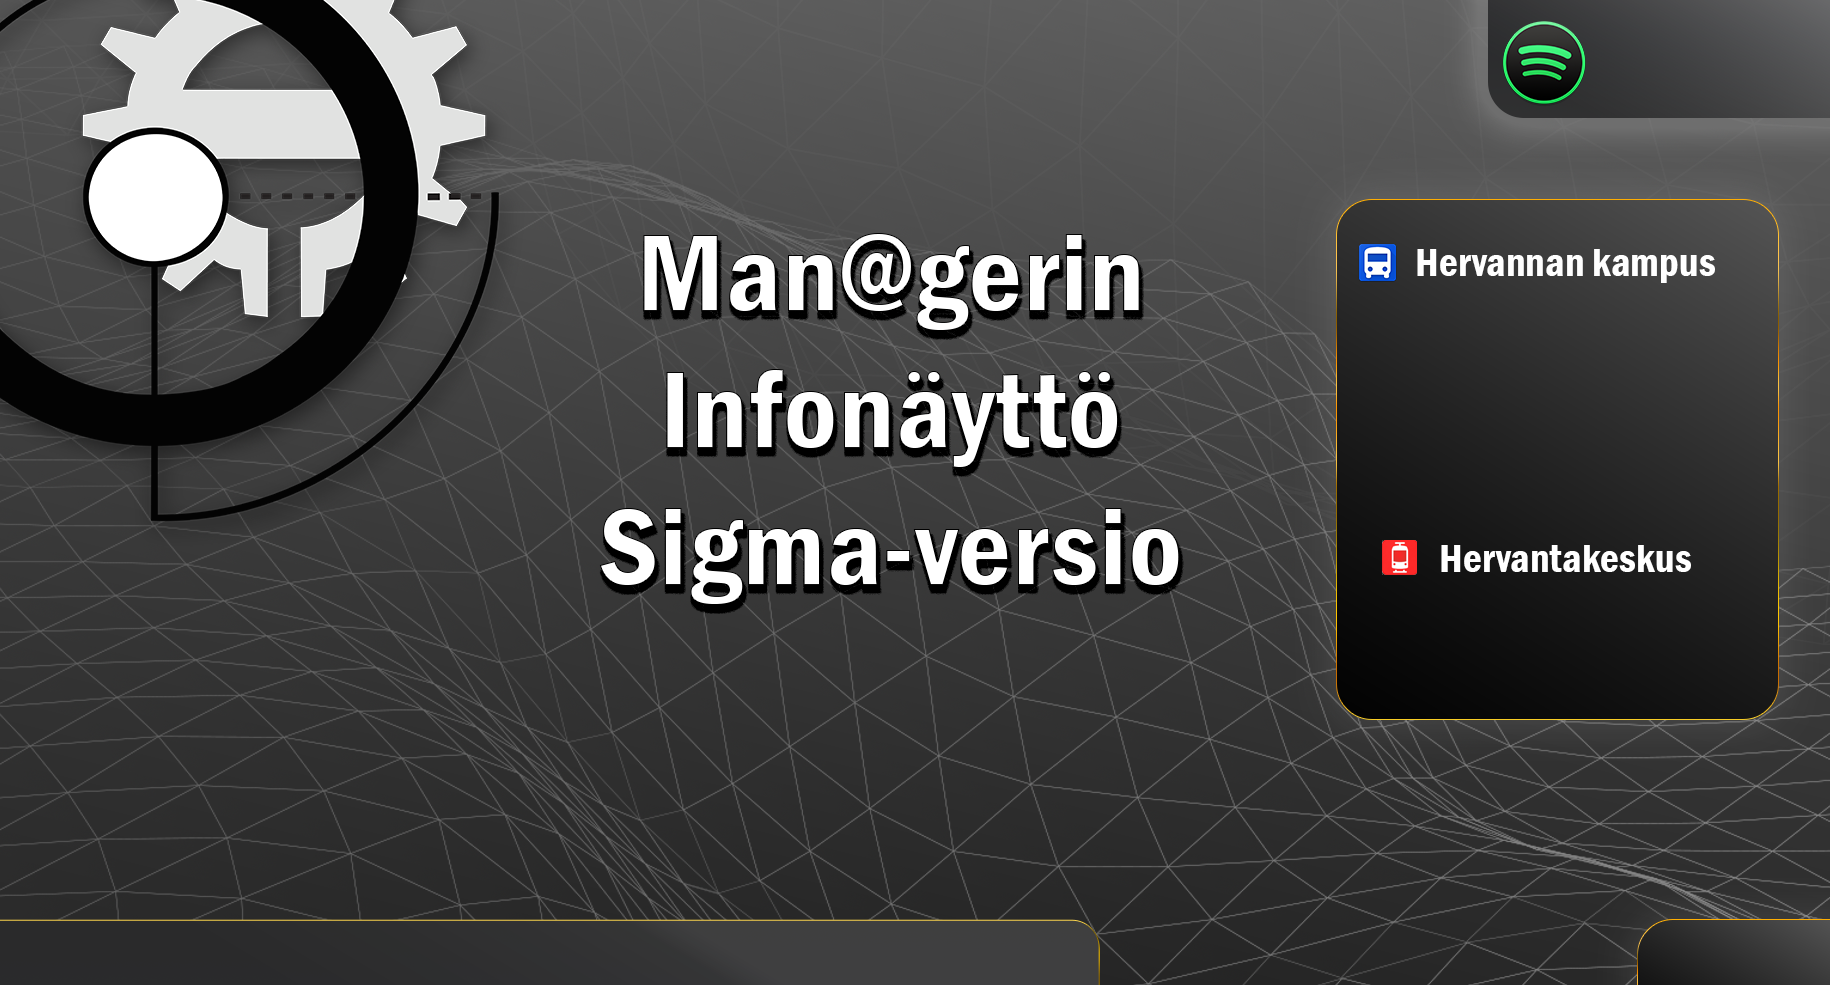
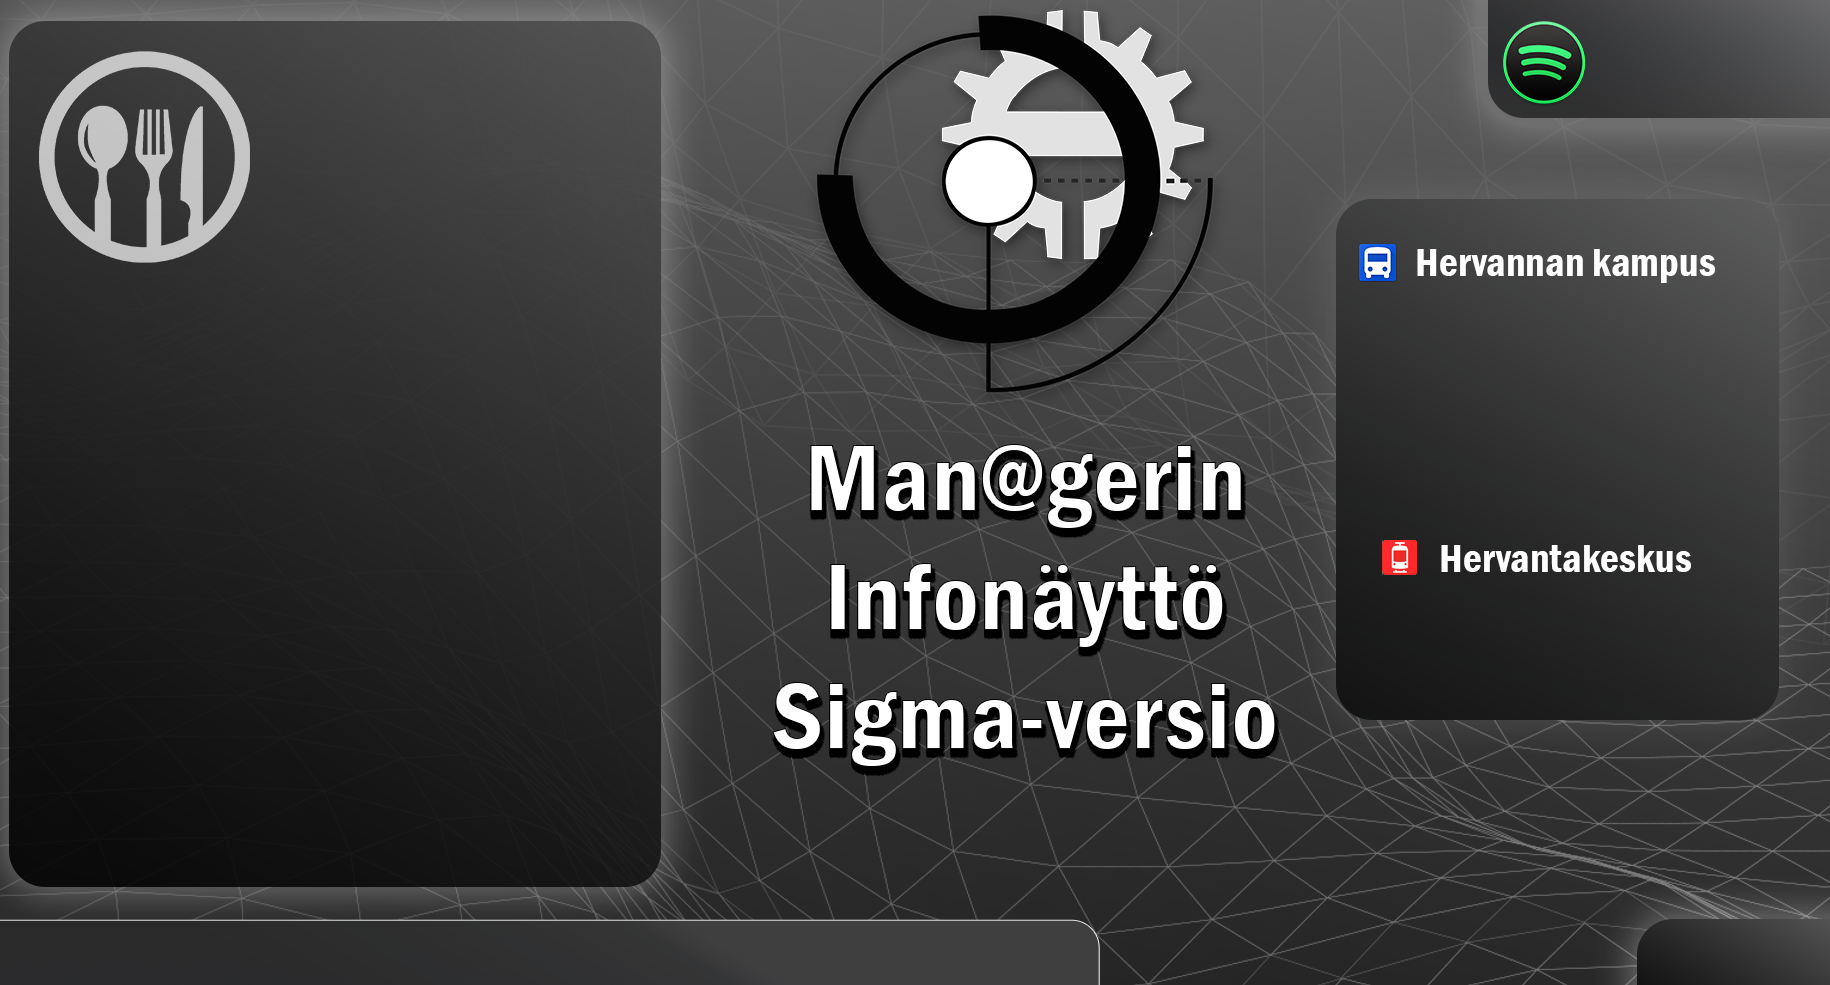
add restaurant menus

diff --git a/telegram_bot/restaurant_api.py b/telegram_bot/restaurant_api.py
@@ -16,7 +16,10 @@ def get_reaktori_menu():
                 formated_menu += "It looks like the restaurant is closed today. "
                 break
             for menu in day["SetMenus"]:
-                name = menu["Name"].split('(')[0]
+                try:
+                    name = menu["Name"].split('(')[0]
+                except AttributeError:
+                    name = menu["Name"]
                 formated_menu += "\n<b>{}</b>\n".format(name)
                 for component in menu["Components"]:
                     component = component.split('(')[0]
@@ -41,7 +44,6 @@ def get_hertsi_menu():
     return formated_menu
 
 
-# RESP = [{"kitchenName":"Ravintola Newton","kitchenId":6,"address":"","city":"","email":"","phone":"","info":"","menuTypes":[{"menuTypeId":12,"menuTypeName":"Ateriapalvelut koulu","menus":[{"menuName":"Etelä-Hervannan koulu Tampere","menuAdditionalName":"BI 19.9.2022-28.10.2022","menuId":2944,"days":[{"date":20221007,"weekday":5,"mealoptions":[{"name":"LOUNAS I","orderNumber":8,"id":3,"menuItems":[{"name":"Jauhelihapihvi","orderNumber":1,"portionSize":80,"diets":"L, M, Mu, *","ingredients":"Jauhelihapihvi (liha 52 % (viljaporsas, broileri, nauta), vesi, SOIJAPROTEIINI, perunajauho, korppujauho (VEHNÄ), rypsiöljy, mausteet (sipuli, mustapippuri, paprika, maustepippuri, lipstikka, sarviapila), emulgointiaine auringonkukkalesitiini, jodioitu suola, sokeri, karamellisoitu sokeri, happamuudensäätöaineet (kaliumkloridi, E 300), VEHNÄKUITU, aromit. Viljaporsaan-, naudan- ja broilerinlihan alkuperä Suomi) <strong>(Gluteeni, Soijapapu, vehnä)</strong>"},{"name":"Peruna","orderNumber":2,"portionSize":66,"diets":"G, M, Mu, *, VEG","ingredients":"Peruna (peruna, hapettumisenestoaine (NATRIUMDISULFIITTI)) <strong>(Rikkidioksidi)</strong>"},{"name":"Tomaattikastike","orderNumber":3,"portionSize":95,"diets":"G, M, Mu, VEG","ingredients":"Vesi, Tomatino-kastike (Tomaattisose* 84%, tomaatti* 10%, auringonkukkaöljy, sokeri, sipuli 1,1%, suola, happo (sitruunahappo). *Kestävillä viljelysmenetelmillä kasvatetuista tomaateista.), Maissitärkkelys, Vaalea kastikeaines (Maissitärkkelys, muunnettu perunatärkkelys, maltodekstriini, suola, kasvisrasvat (palmurasva, karitevoi), emulgointiaine (E 451), hiivauute, muunnettu maissitärkkelys, aromi, väriaine (E 150c), kurkuma, riisijauho.), Sokeri (sokeri), Vähäsuolainen kasvisliemijauhe (Suola, maltodekstriini, sipuli 10 %, luontainen aromi, palsternakka 5,2 %, porkkana 4,6 %, purjo 0,3 %. Kasvikset 20 %.), Suola (Ruokasuola ja paakkuuntumisenestoaine (E 536). Valmistettu vakuumisuolasta lisäämällä jodia kaliumjodidina.), Valkosipulimurska (Valkosipuli 80%, vesi, säilöntäaine: kaliumsorbaatti, stabilointiaine: sitruunahappo.), Mustapippurirouhe (Mustapippuri.), Rakuuna (Rakuuna.)"}]},{"name":"LOUNAS II","orderNumber":10,"id":4,"menuItems":[{"name":"Kanapuikko","orderNumber":1,"portionSize":17,"diets":"M","ingredients":"Kanapuikko (koneellisesti eroteltu siipikarjanliha (Suomi), broilerinliha (17 %), vesi, SOIJAPROTEIINIVALMISTE, korppujauho (VEHNÄ), kasvirasvavalmiste (vesi, kookosöljy, peruna-, maissi- ja tapiokatärkkelys, sakeuttamisaine ksantaanikumi, suola, säilöntäaine kaliumsorbaatti, väriaine (E160 b)), mausteet (valkopippuri, tomaatti, sipuli, valkosipuli, maustepippuri), siipikarjanrasva, jodioitu suola, dekstroosi, aromit, karamellisoitu sokeri, rypsiöljy. Broilerinlihan alkuperä Suomi) <strong>(Gluteeni, Soijapapu, vehnä)</strong>"}]},{"name":"LOUNAS KASVIS","orderNumber":14,"id":5,"menuItems":[{"name":"Kasvispihvi","orderNumber":1,"portionSize":4,"diets":"M, *","ingredients":"Kasvispihvi (Porkkana, KANANMUNA, kaali, sipuli, SOIJAproteiinivalmiste, kasvimargariini (rypsiöljy, kovetettu rypsiöljy, aromi), juuriSELLERI, palsternakka, perunajauho, maissirae, perunahiutale, jodioitu suola, mausteet (mm. valkosipuli, paprika, valkopippuri), sokeri. Kasvispitoisuus 74 %.) <strong>(Muna, Selleri, Soijapapu)</strong>"},{"name":"Tomaattikastike","orderNumber":2,"portionSize":5,"diets":"G, M, Mu, VEG","ingredients":"Vesi, Tomatino-kastike (Tomaattisose* 84%, tomaatti* 10%, auringonkukkaöljy, sokeri, sipuli 1,1%, suola, happo (sitruunahappo). *Kestävillä viljelysmenetelmillä kasvatetuista tomaateista.), Maissitärkkelys, Vaalea kastikeaines (Maissitärkkelys, muunnettu perunatärkkelys, maltodekstriini, suola, kasvisrasvat (palmurasva, karitevoi), emulgointiaine (E 451), hiivauute, muunnettu maissitärkkelys, aromi, väriaine (E 150c), kurkuma, riisijauho.), Sokeri (sokeri), Vähäsuolainen kasvisliemijauhe (Suola, maltodekstriini, sipuli 10 %, luontainen aromi, palsternakka 5,2 %, porkkana 4,6 %, purjo 0,3 %. Kasvikset 20 %.), Suola (Ruokasuola ja paakkuuntumisenestoaine (E 536). Valmistettu vakuumisuolasta lisäämällä jodia kaliumjodidina.), Valkosipulimurska (Valkosipuli 80%, vesi, säilöntäaine: kaliumsorbaatti, stabilointiaine: sitruunahappo.), Mustapippurirouhe (Mustapippuri.), Rakuuna (Rakuuna.)"},{"name":"Peruna","orderNumber":3,"portionSize":100,"diets":"G, M, Mu, *, VEG","ingredients":"Peruna (peruna, hapettumisenestoaine (NATRIUMDISULFIITTI)) <strong>(Rikkidioksidi)</strong>"}]},{"name":"SALAATTI","orderNumber":38,"id":12,"menuItems":[{"name":"Punajuuri-omenasalaatti","orderNumber":1,"portionSize":36,"diets":"G, L, M, Mu, VEG","ingredients":"Punajuurikuutio mausteliemessä (Punajuuri, vesi, sokeri, happo (etikkahappo), säilöntäaine (kaliumsorbaatti), neilikka-aromi.), Omena (puolalainen omena, hapettumisenestoaineet (E300, E330))"},{"name":"Kaali","orderNumber":2,"portionSize":20,"diets":"G, M, Mu, VEG","ingredients":"Kaali (Valkokaali)"}]},{"name":"VÄLIPALA","orderNumber":45,"id":23,"menuItems":[{"name":"Maustamaton jogurtti","orderNumber":1,"portionSize":100,"diets":"G, L, Mu","ingredients":"Maustamaton jogurtti (pastöroitu suomalainen rasvaton LUOMUMAITO, jogurttihapate, Lactobacillus acidophilus ja Bifidobacterium sp.) <strong>(Maito)</strong>"},{"name":"Mangosose","orderNumber":2,"portionSize":30,"diets":"G, M, Mu, VEG","ingredients":"Mangosose (mango (100 %, muu kuin EU))"},{"name":"Kurkku","orderNumber":3,"portionSize":20,"diets":"G, VEG","ingredients":"Kurkku (suomalainen kurkku)"}]}]}]}]},{"menuTypeId":56,"menuTypeName":"Lounas","menus":[{"menuName":"Ravintola Newton ROHEE","menuAdditionalName":"BI 19.9.2022 - 28.10.2022","menuId":2943,"days":[{"date":20221007,"weekday":5,"mealoptions":[{"name":"LOUNAS I","orderNumber":8,"id":3,"menuItems":[{"name":"Jauhelihapihvi","orderNumber":1,"portionSize":105,"diets":"L, M, Mu, *","ingredients":"Jauhelihapihvi (liha 52 % (viljaporsas, broileri, nauta), vesi, SOIJAPROTEIINI, perunajauho, korppujauho (VEHNÄ), rypsiöljy, mausteet (sipuli, mustapippuri, paprika, maustepippuri, lipstikka, sarviapila), emulgointiaine auringonkukkalesitiini, jodioitu suola, sokeri, karamellisoitu sokeri, happamuudensäätöaineet (kaliumkloridi, E 300), VEHNÄKUITU, aromit. Viljaporsaan-, naudan- ja broilerinlihan alkuperä Suomi) <strong>(Gluteeni, Soijapapu, vehnä)</strong>"},{"name":"Kermainen pippurikastike","orderNumber":2,"portionSize":106,"diets":"G, L, Mu","ingredients":"Vesi, Ruokakerma (Vesi, KIRNUMAITO, kasviöljyt (rypsi ja palmu#), muunnettu tärkkelys, emulgointiaine (rasvahappojen mono- ja diglyseridit (kasvirasvapohjainen)), stabilointiaineet (metyyliselluloosa, guarkumi), happamuudensäätöaineet (natriumsitraatti, sitruunahappo), laktaasientsyymi, aromi. #Kestävän kehityksen mukaisesti tuotettua ja sertifioitua palmuöljyä. Lue lisää: www.ufs.com/vastuullisuus) <strong>(Maito)</strong>, Ruskea kastikeaines (Maltodekstriini, muunnettu perunatärkkelys, maissitärkkelys, suola, kasvirasvat (palmurasva, karitevoi), väriaine (E 150c), sipuli, sokeri, emulgointiaine (E 451), muunnettu maissitärkkelys, happo (sitruunahappo), aromi.), Tomaattisose (tomaatti), Vähäsuolainen lihaliemijauhe (Maltodekstriini, suola, luontainen aromi, naudanlihauute 8,9 %, sipuli.), Sokeri (sokeri), Mustapippurirouhe (Mustapippuri.), Suola (Ruokasuola ja paakkuuntumisenestoaine (E 536). Valmistettu vakuumisuolasta lisäämällä jodia kaliumjodidina.)"},{"name":"Keitetyt perunat","orderNumber":3,"portionSize":92,"diets":"G, M, Mu, *, VEG","ingredients":"Peruna (Peruna)"},{"name":"Päivän lämmin kasvislisäke","orderNumber":4,"portionSize":61,"diets":"","ingredients":"***"}]},{"name":"LOUNAS II","orderNumber":10,"id":4,"menuItems":[{"name":"Broileri-curry-kookoskastike","orderNumber":1,"portionSize":107,"diets":"G, L, M, Mu, *","ingredients":"Vesi, Broilerin fileesuikale (suomalainen broilerinfilee, jodioitu suola.100 g:aan tuotetta käytetty 113 g lihaa.LAKTOOSITON. GLUTEENITON. RUNSASPROTEIININEN.), Vihannessekoitus (Porkkanaviipale poimutettu 15-27mm (35%), parsakaali 20-40mm(25%), romano-papupala 20-40mm (20%), punainen paprikasuikale (10%), minimaissipala (10%).), Kookosmaito (kookospähkinäuute (75 %), vesi, emulgointiaine (E471), stabilointiaine (E466).), Punainen paparika (keltainen paprika (33%), punainen paprika (33%), vihreä paprika (33%)), Maissitärkkelys, Vähäsuolainen kanaliemijauhe (Maltodekstriini, suola, luontainen aromi, sipuli, jauhettu kananliha 2,2 %, hapettumisenestoaine: rosmariiniuute.), Sokeri (sokeri), Suola (Ruokasuola ja paakkuuntumisenestoaine (E 536). Valmistettu vakuumisuolasta lisäämällä jodia kaliumjodidina.), Curry (Korianteri (34%), kurkuma (31%), sarviapila, cayennepippuri, juustokumina, fenkoli, mustapippuri.)"},{"name":"Täysjyväriisi","orderNumber":2,"portionSize":65,"diets":"G, L, M, Mu, *, VEG","ingredients":"Vesi, Tummariisi (parboil-käsitelty pitkäjyväinen tumma riisi), Rypsiöljy (rapsiöljy (siemen: eu)), Suola (Ruokasuola ja paakkuuntumisenestoaine (E 536). Valmistettu vakuumisuolasta lisäämällä jodia kaliumjodidina.)"},{"name":"Päivän lämmin kasvislisäke","orderNumber":3,"portionSize":50,"diets":"","ingredients":"***"}]}]}]}]},{"menuTypeId":110,"menuTypeName":"Kasvis","menus":[{"menuName":"Ravintola Newton #EATYOURGREENS","menuAdditionalName":"BI 19.9.2022 - 28.10.2022","menuId":2945,"days":[{"date":20221007,"weekday":5,"mealoptions":[{"name":"LOUNAS KASVIS LINJA 4","orderNumber":99,"id":96,"menuItems":[{"name":"Kasvispyörykät","orderNumber":1,"portionSize":16,"diets":"G, M, *","ingredients":"Kasvispyörykät (Porkkana, KANANMUNA, palsternakka, sipuli, SEESAMINSIEMEN, SOIJAproteiinivalmisteet, rypsiöljy, perunajauho, perunahiutale, kasvimargariini (rypsiöljy, kovetettu rypsiöljy, aromi), jodioitu suola, mausteet (mm. valkopippuri). Kasvispitoisuus 69 %.) <strong>(Muna, Seesaminsiemen, Soijapapu)</strong>"},{"name":"Höyryperunat","orderNumber":2,"portionSize":285,"diets":"G, M, Mu, *, VEG","ingredients":"Peruna (Peruna)"},{"name":"Tsatsiki-kastike","orderNumber":3,"portionSize":80,"diets":"G, L, Mu","ingredients":"Kurkku (suomalainen kurkku), Kermaviili (pastöroitu KERMA, hapate) <strong>(Maito)</strong>, Maustamaton jogurtti (pastöroitu suomalainen rasvaton LUOMUMAITO, jogurttihapate, Lactobacillus acidophilus ja Bifidobacterium sp.) <strong>(Maito)</strong>, Sokeri (sokeri), Sitruunamehu (Sitruunatäysmehu tiivisteestä, C-vitamiini.), Valkosipulimurska (Valkosipuli 80%, vesi, säilöntäaine: kaliumsorbaatti, stabilointiaine: sitruunahappo.), Väkiviinaetikka (Väkiviinaetikka. Etikkahappopitoisuus 10 %), Suola (Ruokasuola ja paakkuuntumisenestoaine (E 536). Valmistettu vakuumisuolasta lisäämällä jodia kaliumjodidina.), Mustapippurirouhe (Mustapippuri.), Persilja (Persilja.), Sitruunapippuri (Mustapippuri (56%), happo (sitruunahappo), sipuli, sokeri, sitruunamehujauhe (0,8%).)"},{"name":"Päivän lämmin kasvislisäke","orderNumber":4,"portionSize":50,"diets":"","ingredients":"***"}]}]}]}]}]}]
 def get_newton_menu():
     """ Prints Newton's menu"""
     formated_menu = ""

diff --git a/telegram_bot/infoscreen.py b/telegram_bot/infoscreen.py
@@ -1,12 +1,14 @@
 # This Python file uses the following encoding: utf-8
+import logging
 import sys
 import os
 from kiltabotti import BotController
 from nysse_api import NysseApi
+from restaurant_api import get_newton_menu, get_reaktori_menu, get_hertsi_menu
 
 from PyQt5.QtWidgets import QApplication, QWidget, QLabel, QGraphicsDropShadowEffect, QListWidget, QFrame, QProgressBar
 from PyQt5.QtGui import QPixmap, QColor
-from PyQt5.QtCore import QTimer, QTime, QPropertyAnimation
+from PyQt5.QtCore import QTimer, QTime, QPropertyAnimation, Qt
 
 # current_dir = os.path.dirname(os.path.abspath(__file__))
 # Form, Base = loadUiType(os.path.join(current_dir, "form.ui"))
@@ -26,6 +28,7 @@ class InfoScreen(QWidget):
         self.showFullScreen()
         self.bot_controller = bot_controller
         self.nysse_api = nysse_api
+        self.current_restaurant = "NEWTON"
 
         # Set background image
         bg = self.findChild(QLabel, "Background")
@@ -38,6 +41,8 @@ class InfoScreen(QWidget):
         self.timetable2 = self.setup_timetable("Timetable2")
         self.now_playing = self.setup_now_playing()
         self.progressbar = self.setup_progress_bar()
+        self.food_menu = self.setup_foodmenu()
+        self.restaurant_label = self.setup_restaurant_label()
         self.setup_timers()
 
     def setup_timers(self):
@@ -49,6 +54,10 @@ class InfoScreen(QWidget):
         timer.timeout.connect(self.update_now_playing)
         timer.timeout.connect(self.update_progress_bar)
         timer.start(5000)
+
+        restaurant_timer = QTimer(self)
+        restaurant_timer.timeout.connect(self.update_foodmenu)
+        restaurant_timer.start(15000)
 
         spotify_timer = QTimer(self)
         spotify_timer.timeout.connect(self.bot_controller.spotify_controller.update_auth_token)
@@ -138,13 +147,51 @@ class InfoScreen(QWidget):
         try:
             data = self.bot_controller.spotify_controller.spotify_api.currently_playing()
             new_value = int(int(data["progress_ms"]) / int(data["item"]["duration_ms"]) * 100)
+            if new_value < self.progressbar.value():
+                new_value = 0
         except:
             new_value = 0
         animation = QPropertyAnimation(self.progressbar, b"value", self)
-        animation.setDuration(5000)
+        animation.setDuration(3000)
         animation.setStartValue(self.progressbar.value())
         animation.setEndValue(new_value)
         animation.start()
+
+    def setup_foodmenu(self):
+        """ Set up a table to show restauran menus. """
+        food_menu = self.findChild(QLabel, "FoodMenu")
+        food_menu.setStyleSheet("color: white")
+        food_menu.setText("Suljettu")
+        food_menu.setWordWrap(True)
+        food_menu.setAlignment(Qt.AlignTop)
+        return food_menu
+
+    def setup_restaurant_label(self):
+        """ Set up a table to show restaurant name. """
+        restaurant_label = self.findChild(QLabel, "Restaurant")
+        restaurant_label.setStyleSheet("color: white")
+        restaurant_label.setText("Newton")
+        restaurant_label.setWordWrap(True)
+        restaurant_label.setAlignment(Qt.AlignTop)
+        restaurant_label.setGraphicsEffect(QGraphicsDropShadowEffect())
+        return restaurant_label
+
+    def update_foodmenu(self):
+        """ Update the restauran menu information. """
+        if self.current_restaurant == "HERTSI":
+            menu = get_newton_menu()
+            self.current_restaurant = "NEWTON"
+        elif self.current_restaurant == "NEWTON":
+            menu = get_reaktori_menu()
+            self.current_restaurant = "REAKTORI"
+        elif self.current_restaurant == "REAKTORI":
+            menu = get_hertsi_menu()
+            self.current_restaurant = "HERTSI"
+        formated_menu = ""
+        for line in menu.splitlines():
+            formated_menu += "{}<br>".format(line)
+        self.food_menu.setText(formated_menu)
+        self.restaurant_label.setText(self.current_restaurant)
 
 
 if __name__ == "__main__":

diff --git a/telegram_bot/ui_form.py b/telegram_bot/ui_form.py
@@ -60,6 +60,20 @@ class Ui_InfoScreen(object):
         font.setPointSize(30)
         self.Timetable2.setFont(font)
 
+        self.Restaurant = QLabel(InfoScreen)
+        self.Restaurant.setObjectName(u"Restaurant")
+        self.Restaurant.setGeometry(QRect(290, 125, 300, 200))
+        font = QFont()
+        font.setPointSize(45)
+        self.Restaurant.setFont(font)
+
+        self.FoodMenu = QLabel(InfoScreen)
+        self.FoodMenu.setObjectName(u"FoodMenu")
+        self.FoodMenu.setGeometry(QRect(90, 300, 500, 700))
+        font = QFont()
+        font.setPointSize(15)
+        self.FoodMenu.setFont(font)
+
         self.NowPlaying = QLabel(InfoScreen)
         self.NowPlaying.setObjectName(u"NowPlaying")
         self.NowPlaying.setGeometry(QRect(80, 930, 1000, 50))
@@ -70,7 +84,7 @@ class Ui_InfoScreen(object):
 
         self.ProgressBar = QProgressBar(InfoScreen)
         self.ProgressBar.setObjectName(u"ProgressBar")
-        self.ProgressBar.setGeometry(QRect(0, 920, 1080, 50))
+        self.ProgressBar.setGeometry(QRect(0, 920, 1088, 50))
 
         self.Clock.raise_()
         self.SpotifyCode.raise_()
